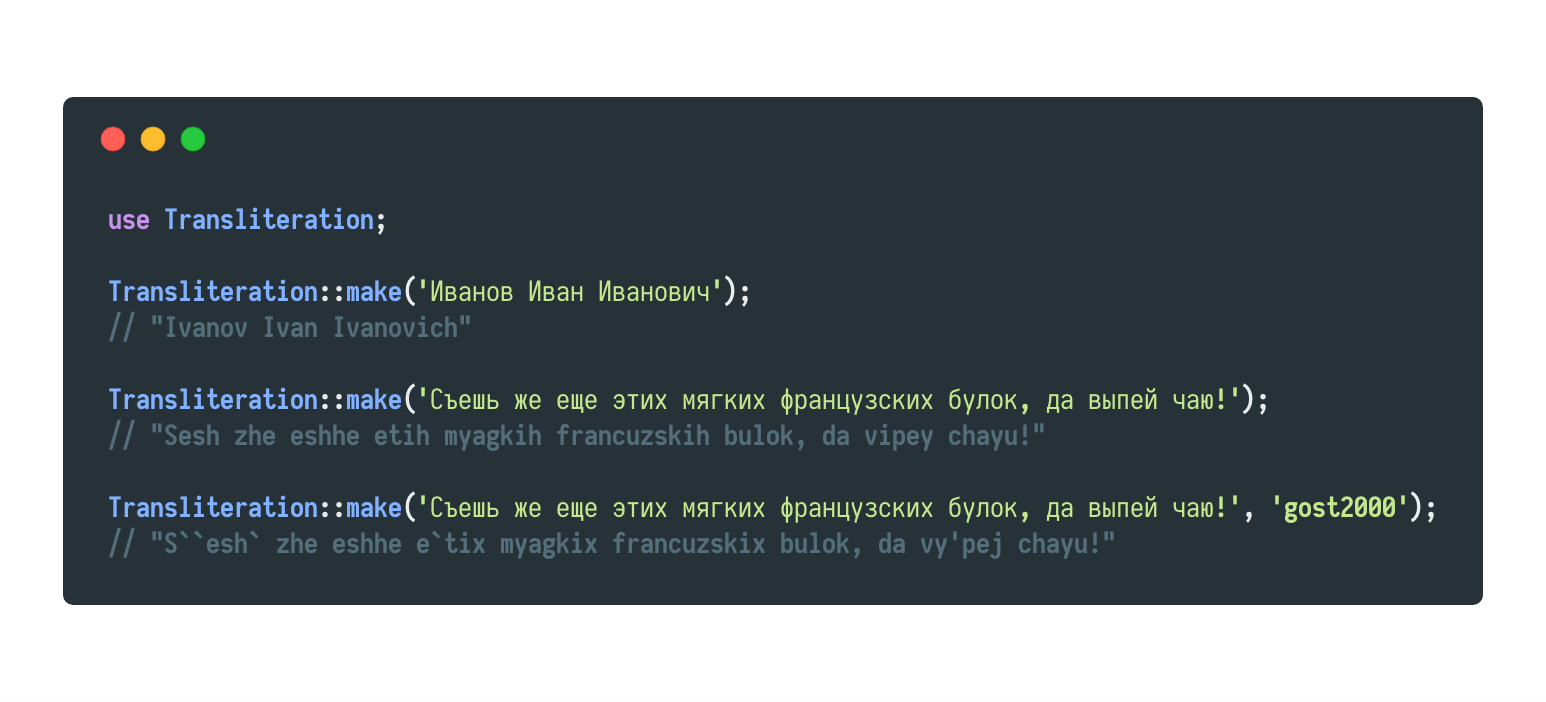
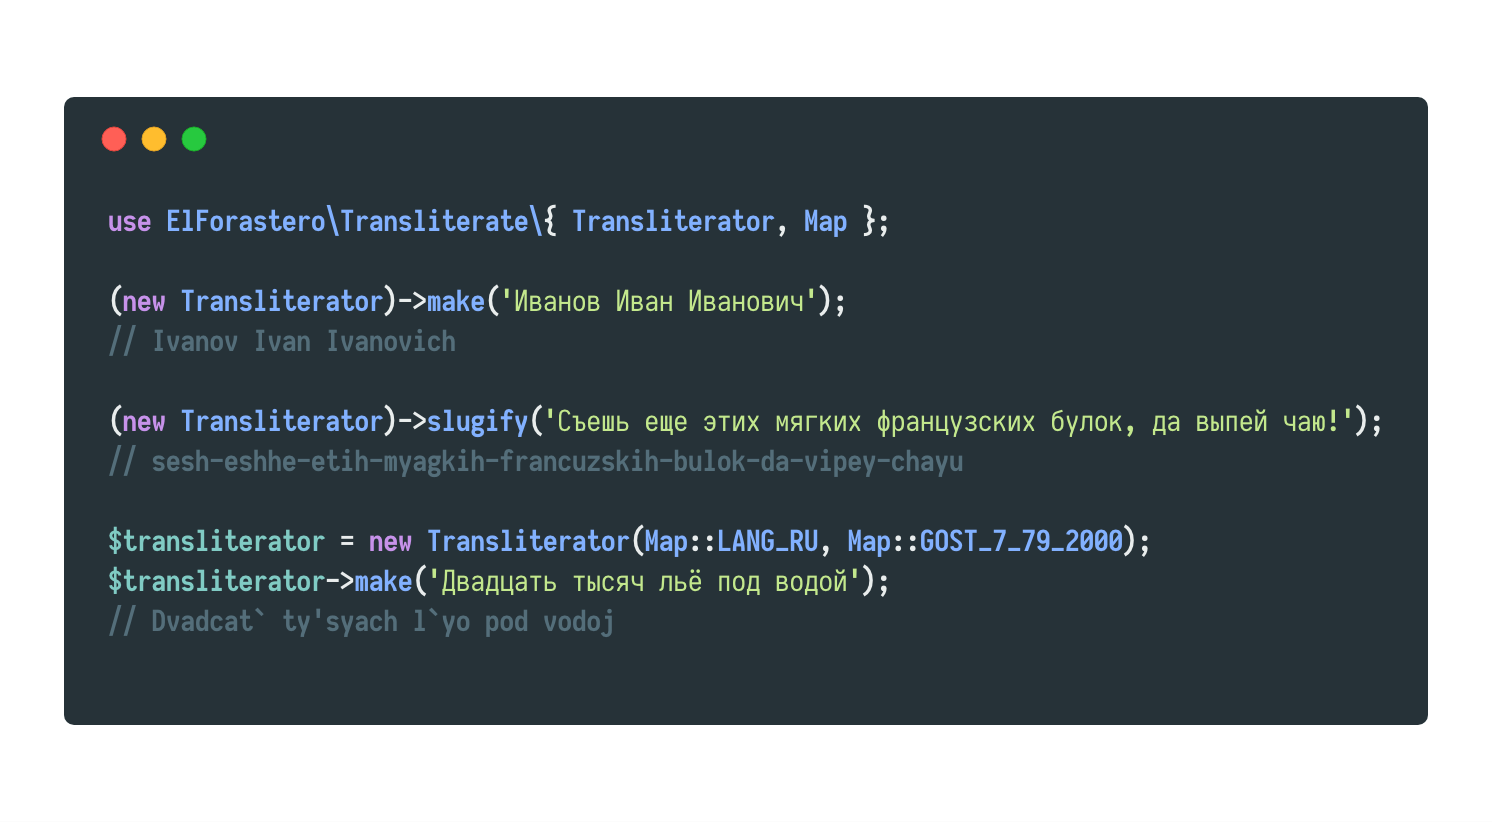
Replace iconv with intl
Use ICU instead of iconv extension. Change readme and API.

diff --git a/src/Transliterator.php b/src/Transliterator.php
@@ -10,11 +10,9 @@ use \Transliterator as IntlTransliterator;
  * Feel free to change it.
  * Either by pull request or forking.
  *
- * Class Transliteration
+ * Class Transliterator
  *
  * @author Eugene Dzhumak <elforastero@ya.ru>
- *
- * @version 2.0.0
  */
 class Transliterator
 {
@@ -34,7 +32,10 @@ class Transliterator
     }
 
     /**
-     * @param string $lang
+     * Change transliterating text language.
+     *
+     * @param string $lang One of the Map::LANG_* constants or custom language.
+     *
      * @return Transliterator
      */
     public function from(string $lang): self
@@ -45,7 +46,10 @@ class Transliterator
     }
 
     /**
-     * @param string $map
+     * Change transliteration map
+     *
+     * @param string $map Name of the transliteration map.
+     *
      * @return Transliterator
      */
     public function useMap(string $map): self
@@ -67,7 +71,7 @@ class Transliterator
         $map = $this->getMap();
         $transliterated = str_replace(array_keys($map), array_values($map), $text);
 
-        if (config('transliterate.remove_accents', false) === true) {
+        if (true === config('transliterate.remove_accents', false)) {
             $transliterator = IntlTransliterator::create('Any-Latin; Latin-ASCII');
             $transliterated = $transliterator->transliterate($transliterated);
         }
@@ -79,6 +83,7 @@ class Transliterator
      * Create a slug by converting and removing all non-ascii characters.
      *
      * @param string $text
+     *
      * @return string
      */
     public function slugify(string $text): string
@@ -116,7 +121,7 @@ class Transliterator
             throw new \InvalidArgumentException("The transliteration map '${path}' doesn't exist");
         }
 
-        /** @noinspection PhpIncludeInspection */
+        /* @noinspection PhpIncludeInspection */
         return require $path;
     }
 

diff --git a/src/config/transliterate.php b/src/config/transliterate.php
@@ -1,5 +1,7 @@
 <?php
 
+use ElForastero\Transliterate\Map;
+
 /** @noinspection PhpVoidFunctionResultUsedInspection */
 return [
     /*
@@ -8,20 +10,20 @@ return [
     |--------------------------------------------------------------------------
     |
     | This option specifies the transliteration map that will be used by default
-    | if no explicit one will be provided during Transliteration::make() call.
+    | if no another one will be provided during Transliteration::make() call.
     |
     */
-    'default_map' => 'common',
+    'default_map' => Map::DEFAULT,
 
     /*
     |--------------------------------------------------------------------------
     | Set default language
     |--------------------------------------------------------------------------
-    | Language of transliterating text. Will be used unless no explicitly
-    | provided into Transliteration::from().
+    | The language of transliterating text.
+    | Will be used unless no explicitly provided.
     |
     */
-    'default_lang' => 'ru',
+    'default_lang' => Map::LANG_RU,
 
     /*
     |--------------------------------------------------------------------------
@@ -61,7 +63,7 @@ return [
     |--------------------------------------------------------------------------
     |
     | Remove accents from letters using ICU rules.
-    | E.g. À, Ä, Â, etc. all become A.
+    | E.g. À, Ä, Â, etc. - all become A.
     |
     */
     'remove_accents' => true,

diff --git a/tests/TransliterationTest.php b/tests/TransliterationTest.php
@@ -15,7 +15,7 @@ class TransliterationTest extends TestCase
 
         $app['config']->set('transliterate.custom_maps', [
             'ru' => [
-                'test' => __DIR__ . '/fixtures/maps/test.php',
+                'test' => __DIR__.'/fixtures/maps/test.php',
             ],
         ]);
     }
@@ -36,7 +36,7 @@ class TransliterationTest extends TestCase
         $initialString = ' Съешь еще этих мягких французских булок, да выпей чаю! & 123';
         $expectedString = 'sesh-eshhe-etih-myagkih-francuzskih-bulok-da-vipey-chayu-and-123';
 
-        $this->assertEquals($expectedString, (new Transliterator)->slugify($initialString));
+        $this->assertEquals($expectedString, (new Transliterator())->slugify($initialString));
     }
 
     public function testCustomMap()

diff --git a/src/ServiceProvider.php b/src/ServiceProvider.php
@@ -8,8 +8,6 @@ use Illuminate\Support\ServiceProvider as BaseServiceProvider;
  * Class ServiceProvider.
  *
  * @author Eugene Dzhumak <elforastero@ya.ru>
- *
- * @version 2.0.0
  */
 class ServiceProvider extends BaseServiceProvider
 {
@@ -34,7 +32,7 @@ class ServiceProvider extends BaseServiceProvider
 
         $this->mergeConfigFrom($configPath, 'transliterate');
 
-        $this->app->bind('Transliteration', function ($app) {
+        $this->app->bind('Transliterator', function ($app) {
             return new Transliterator();
         });
     }

diff --git a/tests/TransformersTest.php b/tests/TransformersTest.php
@@ -20,7 +20,7 @@ class TransformersTest extends TestCase
     public function testTransformers()
     {
         $initialString = '  Строка с пробелами  ';
-        $transliterator = (new Transliterator)->from('ru')->useMap('common');
+        $transliterator = (new Transliterator())->from('ru')->useMap('common');
 
         $this->assertEquals(
             strtoupper(trim('  Stroka s probelami  ')),

diff --git a/src/Facade.php b/src/Facade.php
@@ -8,8 +8,6 @@ use Illuminate\Support\Facades\Facade as BaseFacade;
  * Class Facade.
  *
  * @author Eugene Dzhumak <elforastero@ya.ru>
- *
- * @version 2.0.0
  */
 class Facade extends BaseFacade
 {
@@ -18,6 +16,6 @@ class Facade extends BaseFacade
      */
     public static function getFacadeAccessor()
     {
-        return 'Transliteration';
+        return 'Transliterator';
     }
 }

diff --git a/tests/TestCase.php b/tests/TestCase.php
@@ -8,7 +8,7 @@ class TestCase extends \Orchestra\Testbench\TestCase
 {
     protected function getEnvironmentSetUp($app)
     {
-        $config = require dirname(__DIR__) . '/src/config/transliterate.php';
+        $config = require dirname(__DIR__).'/src/config/transliterate.php';
         $app['config']->set('transliterate', $config);
 
         Transformer::override([

diff --git a/src/maps/ru/GOST_7.79.2000.php b/src/maps/ru/GOST_7.79.2000.php
@@ -1,7 +1,9 @@
 <?php
 
 /**
- * Transliteration by ГОСТ 7.79-2000.
+ * Transliteration by GOST 7.79-2000.
+ *
+ * @see https://en.wikipedia.org/wiki/Romanization_of_Russian
  */
 return [
     'ж' => 'zh',

diff --git a/src/Transformer.php b/src/Transformer.php
@@ -8,8 +8,6 @@ namespace ElForastero\Transliterate;
  * Class Transformer.
  *
  * @author Eugene Dzhumak <elforastero@ya.ru>
- *
- * @version 1.0.0
  */
 final class Transformer
 {

diff --git a/src/Map.php b/src/Map.php
@@ -6,8 +6,8 @@ namespace ElForastero\Transliterate;
 
 /**
  * Class Map.
+ *
  * @author Eugene Dzhumak <elforastero@ya.ru>
- * @version 2.0.0
  */
 abstract class Map
 {

diff --git a/src/maps/uk/common.php b/src/maps/uk/common.php
@@ -2,6 +2,8 @@
 
 /**
  * Transliteration with commonly used map.
+ *
+ * @see https://en.wikipedia.org/wiki/Romanization_of_Ukrainian
  */
 return [
     'ж' => 'zh',

diff --git a/README.md b/README.md
@@ -4,10 +4,11 @@
 ![GitHub release](https://img.shields.io/github/release/elforastero/transliterate.svg)
 ![Packagist](https://img.shields.io/packagist/dt/elforastero/transliterate.svg)
 
-Небольшой пакет для транслитерации кириллицы. Из коробки поддерживаются 2 карты траслитерации: общепринятая и ГОСТ 7.79-2000. Поддерживается возможность создания своих собственных карт.
+Небольшой пакет для транслитерации кириллицы с возможностью создания своих собственных карт транслитерации.
 
 ![Code example](example.png)
 
+- [Предустановленные карты](#Предустановленные-карты)
 - [Системные требования](#Системные-требования)
 - [Установка](#Установка)
 - [Конфигурация](#Конфигурация)
@@ -15,9 +16,18 @@
 - [Создание карт транслитерации](#Создание-карт-транслитерации)
 - [Создание трансформеров](#Создание-трансформеров)
 
+## Предустановленные карты
+
+- Русский
+    - Дефолтная
+    - ГОСТ 7.79 2000
+- Украинский
+    - Национальная
+
 
 ## Системные требования
-laravel >= 5.6
+- laravel >= 5.6
+- ext-intl
 
 ## Установка
 ```
@@ -35,7 +45,7 @@ ElForastero\Transliterate\ServiceProvider::class,
 Если вы хотите использовать алиас, добавьте его в массив `facades` в `app.php`.
 
 ```php
-'Transliteration' => ElForastero\Transliterate\Facade::class,
+'Transliterator' => ElForastero\Transliterate\Facade::class,
 ```
 
 ## Конфигурация
@@ -51,17 +61,27 @@ ElForastero\Transliterate\ServiceProvider::class,
 Вы можете использовать фасад для транслитерации строк.
 
 ```php
-use Transliteration;
+use Transliterator;
 
-Transliteration::make('Двадцать тысяч льё под водой');
+(new Transliterator)->make('Двадцать тысяч льё под водой');
 // "Dvadcat tisyach lyo pod vodoy"
 ```
 
 Альтернативная карта транслитерации может быть передана вторым параметром.
 
 ```php
-Transliteration::make('Двадцать тысяч льё под водой', 'gost2000');
+$transliterator = new Transliterator(Map::LANG_RU, Map::GOST_7_79_2000);
+$transliterator->make('Двадцать тысяч льё под водой');
 // "Dvadcat` ty'syach l`yo pod vodoj"
+```
+
+## Генерация URL
+
+Метод `slugify` генерирует URL, убирая из строки все знаки препинания и заменяя пробелы на "-".
+
+```php
+(new Transliterator)->slugify('Съешь еще этих мягких французских булок, да выпей чаю!');
+// sesh-eshhe-etih-myagkih-francuzskih-bulok-da-vipey-chayu
 ```
 
 ## Создание карт транслитерации
@@ -71,7 +91,7 @@ Transliteration::make('Двадцать тысяч льё под водой', 'g
 Карта создается в виде отдельного файла с возвращаемым массивом:
 
 ```php
-// /resources/maps/ukraine.php
+// /resources/maps/uk/ukraine.php
 
 return [
     'ї' => 'i',
@@ -83,13 +103,16 @@ return [
 Добавьте путь к созданной карте в массив `maps`, конфига `transliterate.php`:
 
 ```php
-'ukraine' => dirname(__DIR__) . '/resources/maps/ukraine.php',
+'uk' => [
+    'ukraine' => dirname(__DIR__) . '/resources/maps/uk/ukraine.php',
+]
 ```
 
 После этого карту можно использовать.
 
 ```php
-Transliteration::make('Ваша транслітерація', 'ukraine');
+$transliterator = new Transliterator('uk', 'ukraine');
+$transliterator->make('Ваша транслітерація');
 ```
 
 ## Создание трансформеров
@@ -109,4 +132,4 @@ ElForastero\Transliterate\Transformer::register(\Closure::fromCallable('trim')),
 ElForastero\Transliterate\Transformer::register(\Closure::fromCallable('strtolower')),
 ```
 
-> Будьте внимательны, поскольку трансформеры применяются при каждом вызове `Transliteration::make`.
+> Будьте внимательны, поскольку трансформеры применяются при каждом вызове `Transliterator::make`.
